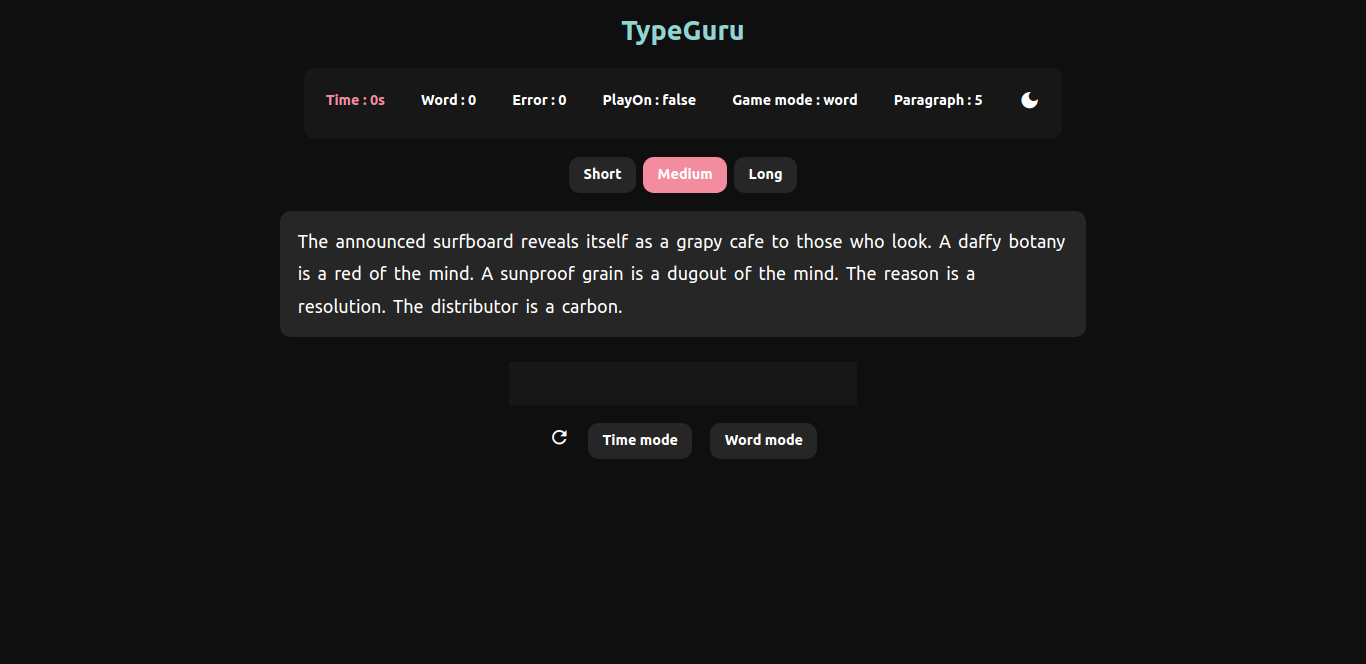
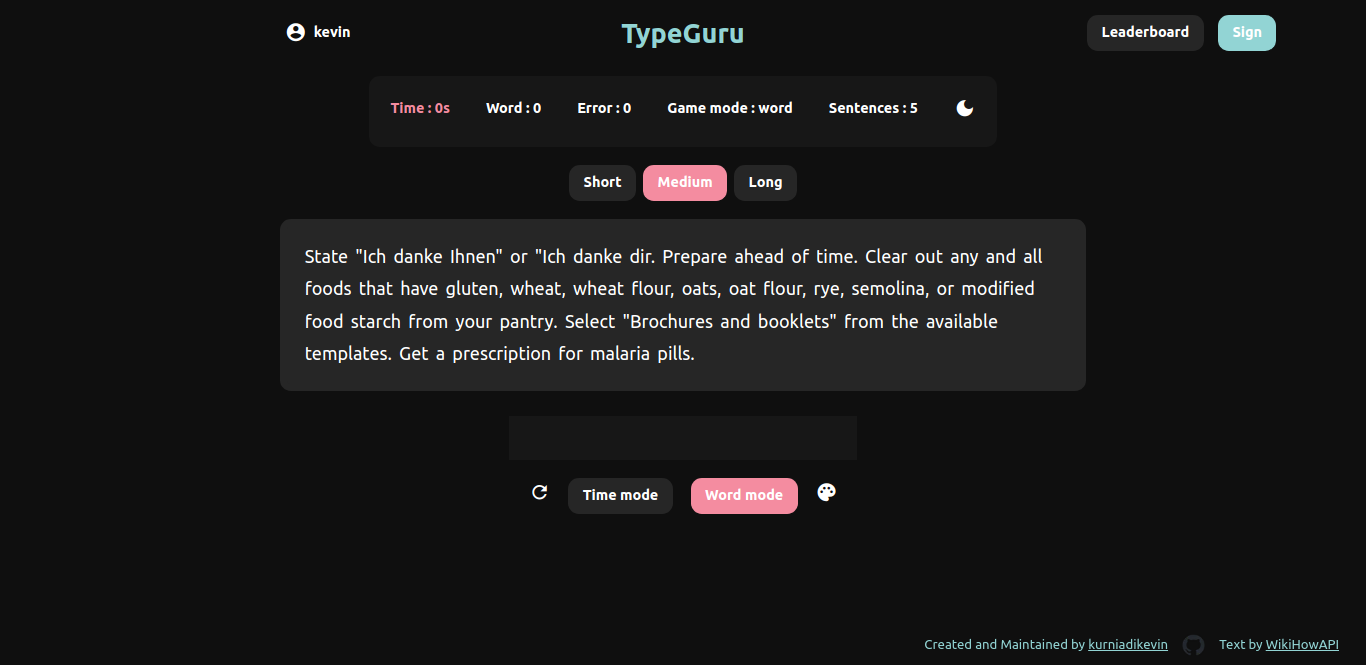
update typeguru sc and description and update tech stack with mysql and docker

diff --git a/index.html b/index.html
@@ -65,7 +65,11 @@
             </div>
             <div class="project-detail">
                 <div class="project-name">
-                    <div>Friendface</div>
+                    <div>
+                        <a href="https://friendface.vercel.app/" target="_blank" id="title-link">
+                            Friendface
+                        </a>
+                    </div>
                     <div class="project-intro">Fullstack social media app, user can make account then authenticate and allow user to interact each other with post, reply, and comment.
                         This webapp contain two repository one for front-end part (this one) and the other for <a href="https://github.com/kurniadikevin/odin-book-api" id="desc-link">back-end</a> part. 
                     </div>
@@ -90,7 +94,11 @@
             </a>
             <div class="project-detail">
                 <div class="project-name">
-                    <div>Twittish</div>
+                    <div>
+                    <a href="https://twittish-newdb.web.app" target="_blank" id="title-link">
+                        Twittish
+                    </a>
+                    </div>
                     <div class="project-intro">
                         Twittish is serverless social media web-app user can sign-up and login and post text or image. I'm using firebase for handle authentication,real-time database,
                          and hosting.
@@ -116,10 +124,15 @@
             </a>
             <div class="project-detail">
                 <div class="project-name">
-                    <div>TypeGuru</div>
+                    <div>
+                        <a href="https://typeguru.vercel.app" target="_blank" id="title-link">
+                            TypeGuru
+                        </a>
+                    </div>
                     <div class="project-intro">
                         Typing test application for testing WPM and including Gross WPM, WPM, Error, Time, and Accuracy. The typing test have two different mode, Time Mode and Word Mode.
-                        All text assets for typing is from <a id="desc-link" href="https://rapidapi.com/hargrimm/api/wikihow">WikiHow API</a>  that generate random text by input of the number of paragraph.                        
+                        All text assets for typing is from <a target="_blank" id="desc-link" href="https://rapidapi.com/hargrimm/api/wikihow">WikiHow API</a>  that generate random text by input of the number of paragraph. User can make account and participate in leaderboard. All data for this app is managed on 
+                        <a id="desc-link" target="_blank" href="https://github.com/kurniadikevin/typeguru-api">Typeguru-API</a>                       
                     </div>
                     <div class="project-text">React Next.js Typescript Tailwind.css</div>
                 </div>
@@ -140,7 +153,11 @@
             </div>
             <div class="project-detail">
                 <div class="project-name">
-                    <div>Blackboard Journal</div>
+                    <div>
+                        <a href="https://blackboardjournal.vercel.app/" target="_blank" id="title-link" >
+                            Blackboard Journal
+                        </a>
+                    </div>
                     <div class="project-intro">
                        Blackboard Journal is simple blog site for displaying text only.
                         This website content can be managed by <a id="desc-link"  href="https://github.com/kurniadikevin/blog-cms">CMS Blackboard Journal</a> and
@@ -165,7 +182,11 @@
             </div>
             <div class="project-detail">
                 <div class="project-name">
-                    <div>Weather-App</div>
+                    <div>
+                        <a href="https://kurniadikevin.github.io/Weather-App/" target="_blank" id="title-link">
+                            Weather-App
+                        </a>
+                    </div>
                     <div class="project-intro">
                        Simple Weather-App website that fetching data from openweather. User can search for weather of any city and have their weather data.
                     </div>
@@ -190,7 +211,11 @@
             </div>
             <div class="project-detail">
                 <div class="project-name">
-                    <div>Where's Waldo</div>
+                    <div>
+                    <a href="https://wheres-waldo.vercel.app/" target="_blank" id="title-link">
+                        Where's Waldo
+                    </a>
+                </div>
                     <div class="project-intro">
                        Mini-game based on Where's Waldo games. Using photo tagging logic for finding Waldo.
                     </div>
@@ -213,7 +238,11 @@
             </div>
             <div class="project-detail">
                 <div class="project-name">
-                    <div>Memory-Card</div>
+                    <div>
+                        <a href="https://kurniadikevin.github.io/Memory-Card/"  target="_blank" id="title-link">
+                        Memory-Card
+                        </a>
+                    </div>
                     <div class="project-intro">
                         Memory-Card is simple game to remember image that you have choose before. Build using React.js for UI and State logic.
                     </div>
@@ -236,7 +265,11 @@
             </div>
             <div class="project-detail">
                 <div class="project-name">
-                    <div>Member's Only</div>
+                    <div>
+                        <a href="https://members-only-production-51bd.up.railway.app" target="_blank" id="title-link">
+                            Member's Only
+                        </a>
+                    </div>
                     <div class="project-intro">
                        Member's Only is 'clubhouse' style text-based social media website. User can sign up dan join club too see other user post in the same club. 
                        User can only see post of club member if they are joining the same club otherwise will be anonymous or hidden.
@@ -262,7 +295,11 @@
             </div>
             <div class="project-detail">
                 <div class="project-name">
-                    <div>CMS Blackboard journal</div>
+                    <div>
+                        <a href="https://cmsblackboardjournal.vercel.app" target="_blank" id="title-link">
+                            CMS Blackboard journal
+                        </a>
+                    </div>
                     <div class="project-intro">
                       Content Management System for Blackboard Journal user can only edit if they have user and password to log-in.
                     </div>
@@ -285,7 +322,11 @@
             </div>
             <div class="project-detail">
                 <div class="project-name">
-                    <div>Simple Phaser.js Game</div>
+                    <div>
+                        <a href="https://kurniadikevin.github.io/simple-game-phaser.js" target="_blank" id="title-link">
+                            Simple Phaser.js Game
+                        </a>
+                    </div>
                     <div class="project-intro">
                        Simple 2D classic Super-Mario style game build using Phaser.js framework including Phaser.js animation, physics, and logic.
                     </div>
@@ -308,7 +349,11 @@
             </div>
             <div class="project-detail">
                 <div class="project-name">
-                    <div>Chord Scale Generator</div>
+                    <div>
+                        <a href='./assets/apk/Chord-Scale-App-1.0.1.apk' download id="title-link">
+                            Chord Scale Generator
+                        </a>
+                    </div>
                     <div class="project-intro">
                         Android-app tool for generating music chord and scale based on user input. Built using React Native and Expo.
                     </div>
@@ -348,7 +393,7 @@
                 <img  id="stack-icon" src="./assets/icons8-git-48.png" alt="git logo" srcset=""><div class="caption">Git</div>
                 </div>
                 <div>
-                <img  id="stack-icon" src="./assets/icons8-webpack-64.png" alt="webpack logo" srcset=""><div  class="caption">Webpack</div>
+                <img  id="stack-icon" src="./assets/docker.png" alt="docker logo" srcset=""><div  class="caption">Docker</div>
                 </div>
                 <div>
                 <img  id="stack-icon" src="./assets/icons8-google-firebase-console-48.png" alt="firebase logo" srcset=""><div  class="caption">Firebase</div>
@@ -379,8 +424,8 @@
                     <div  class="caption">Tailwind.css</div>
                 </div>
                 <div>
-                    <img  id="stack-icon" src="./assets/icons8-sql-64.png" alt="Sql logo" srcset="">
-                    <div  class="caption">Sql</div>
+                    <img  id="stack-icon" src="./assets/mysql.png" alt="Sql logo" srcset="">
+                    <div  class="caption">MySql</div>
                 </div>
                 <div>
                     <img  id="stack-icon" src="./assets/next-js.png" alt="next.js logo" srcset="">

diff --git a/script.js b/script.js
@@ -10,56 +10,3 @@ for(let i=0; i< icon.length; i++){
     })
 }
 
-// slideshow script
-/* const projectBox= document.querySelectorAll('.project-box');
-let currentSliceIndex = 0;
-
-const showSlice=(i)=>{
-    projectBox[i].style.display='block';
-    if(i>0){
-    projectBox[i-1].style.display='none';
-    } else if( i === 0) {
-        projectBox[9].style.display='none';
-    }
-}
-
-//for backward slice
-const removeSliceBackward =(i)=>{
-    projectBox[i].style.display='none';
-}
-
-showSlice(currentSliceIndex);
- */
-/* setInterval(function(){
-    currentSliceIndex++;
-    if(currentSliceIndex === 10){
-        currentSliceIndex=0;
-    }
-    showSlice(currentSliceIndex);
-},1000)
- */
-
-//sliceshow control
-
-/* const next=document.querySelector('#next');
-const previous = document.querySelector('#previous');
-
-next.addEventListener('click',function(){
-    currentSliceIndex++;
-    if(currentSliceIndex === 10){
-        currentSliceIndex=0;
-    }
-    showSlice(currentSliceIndex);
-},)
-
-previous.addEventListener('click',function(){
-    removeSliceBackward(currentSliceIndex);
-    currentSliceIndex--;
-    if(currentSliceIndex === -1){
-        currentSliceIndex=9;
-    }
-    showSlice(currentSliceIndex); 
-
-   
-},)
- */

diff --git a/style.css b/style.css
@@ -335,8 +335,17 @@ header>div{
     .caption{
        transition: 1s;
        display: none;
-       color: var(--ternary);
-       font-size: 15pt;
+       color: var(--text);
+       font-size: 14pt;
+       padding-top: 5px;
+       font-weight: 200;
+    }
+
+    #title-link{
+        text-decoration: none;
+    }
+    #title-link:hover{
+        color: var(--ternary);
     }
 
     /* ----------------FOOTER -------------------- */
